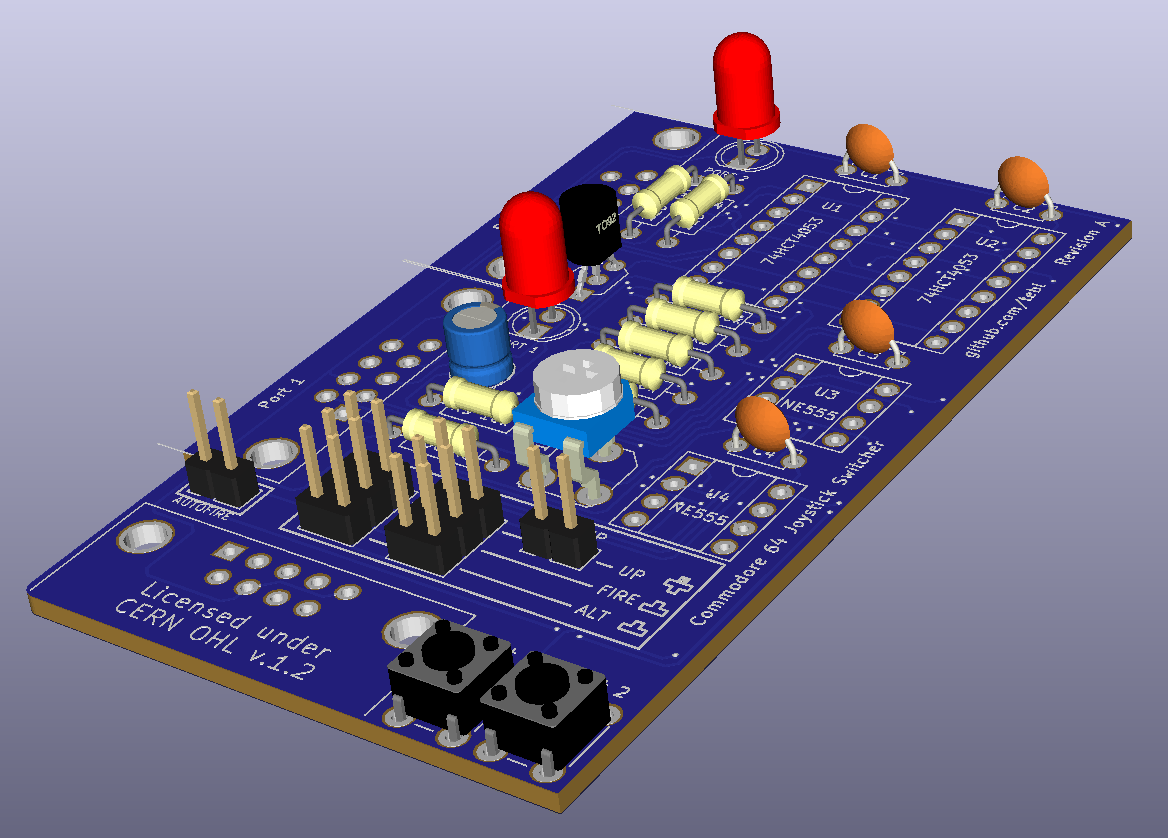
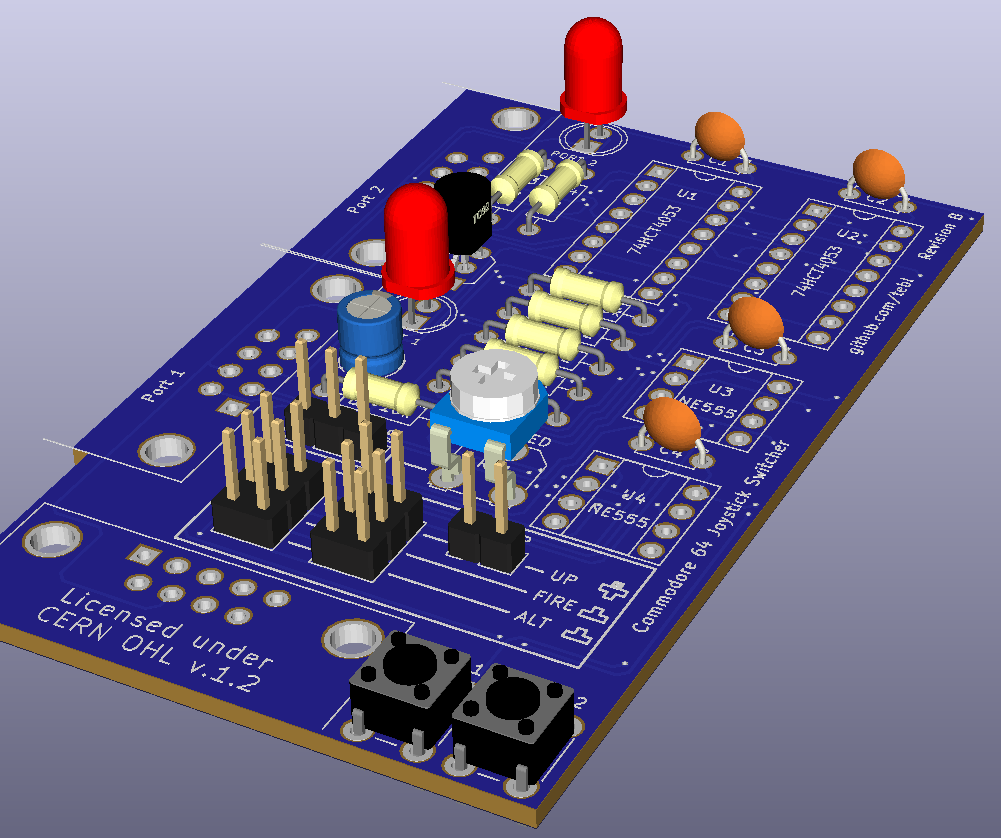
Updated README

diff --git a/README.md b/README.md
@@ -1,7 +1,5 @@
-
 # C64 Joystick Switcher
-
-I was watching [MsMadLemon](https://www.youtube.com/channel/UCSlMemxuBOFu6Rz_Al02nHQ) on [Youtube](https://youtu.be/DOF_CZoSF5g) the other day and she was making an autofire circuit, so naturally I wanted to build one too! Starting with the Mega Switcher for the Commodore 64 (switcher for using Sega Genisis/Mega Drive Controllers) I stripped away some parts to clear space for the autofire parts, and this project was the result of it all.
+I was watching [MsMadLemon](https://www.youtube.com/channel/UCSlMemxuBOFu6Rz_Al02nHQ) on [Youtube](https://youtu.be/DOF_CZoSF5g) the other day and she was making an autofire circuit, so naturally I wanted to build one too. Starting with the [C64 Mega Switcher](https://github.com/tebl/C64-Mega-Switcher) for the Commodore 64 (when you want to use Sega Genisis or Mega Drive Controllers instead), I stripped away some parts to clear space for the autofire parts. Redesigned it a couple of times, then finally redrew the whole thing in order to figure out how I messed it up. Eventually it worked, so now you can build one too! 
 
 ## Building the switcher
 Soldering together the few components should be easy going as long as you have access to reasonable tools, personally I'm using a cheap soldering station with adjustable temperature so no need to go expensive if you don't have to. Use 60/40 soldering tin, the lead free makes to job a lot harder if you're new to the hobby.
@@ -10,33 +8,39 @@ Start by studying the PCB, both sides and perform dry fits to see that you have 
 
 The female DB9 connectors used for port 1/2 comes with a metal shroud, this comes off when you remove the two screws that would be in the way anyway. Given that the C64 ports are made out of plastic, the metal shroud is not needed though you could possibly keep it by gluing it to the connector if you really wanted to and then filling the screw holes with solder to keep them together afterwards. Do a testfit of the connectors with the C64 before soldering them to the board, this is recommended in order to avoid adding any stress to the C64 board.
 
-![Components](https://github.com/tebl/C64-Mega-Switcher/raw/master/gallery/2019-07-30%2017.35.43.jpg)
-
 ## Using the switcher
-Firmly insert the switcher into the C64, making sure that it is inserted the whole way and fits firmly without feeling loose. When playing a game, if you encounter a game that expects a joystick inserted into the other port you can use the switches to change the active port.
+Firmly insert the switcher into the C64, making sure that it is inserted the whole way and fits firmly without feeling loose. When playing a game, if you encounter a game that expects a joystick inserted into the other port you can use the switches to change the currently active port.
 
 **WARNING!**
  - Do **NOT** move any of the jumpers while the computer is switched on, doing so may cause damage to it. Always power off first!
  - Do **NOT** jumper so that more than one button/direction does the same thing, for example: if you jumper the B1 button for UP, then you have to REMOVE the jumper enabling D-PAD UP!
 
+You can use any common Atari-style joystick such as the Competition Pro and Zipstick, they are the ones I've tested with and currently also have in my collection. You can use the secondary fire button if you have one wired with this capability, most commonly the pinout is compatible with the Sega Master System gamepad. An auto-fire circuit has been added to the module, this can be handy if your controller does not include this functionality. 
+
 # Schematic
-The supplied KiCad files should be sufficient as both a schematic and as a  starting point for ordering PCBs (basically you could just zip the contents of the export folder and upload that on a fabrication site), the schematic is also available in [PDF-format](https://github.com/tebl/C64_Mega_Switcher/raw/master/export/C64%20Joystick%20Switcher.pdf) and this is what you'll need to print and work your way through this things don't work as expected after assembly.
+The supplied KiCad files should be sufficient as both a schematic and as a  starting point for ordering PCBs (basically you could just zip the contents of the export folder and upload that on a fabrication site), the schematic is also available in [PDF-format](https://github.com/tebl/C64-Joystick-Switcher/raw/master/export/C64%20Joystick%20Switcher.pdf) and this is what you'll need to print and work your way through this things don't work as expected after assembly.
 
 # BOM
-Most parts should be easy to get a hold of from your favourite local electronic component shop, but given that I don't have access to such shops where I live so everything was based on whatever I could get cheapest from ebay/AliExpress (free shipping, plan on usually waiting 3-4 weeks though).
+Most parts should be easy to get a hold of from your favourite local electronic component shop, but given that I don't have access to such shops where I live so everything was based on whatever I could get cheapest from ebay/AliExpress (free shipping most places, but plan on waiting 3-4 weeks though). Pin headers are bought as strips with 40 pins, single or double rows, that you break into the specified sizes. Any amounts given in paranthesis are for optional functionality, mainly autofire and capability to utilize the secondary fire button if you have one. 
 
 | Reference    | Item                                  | Count |
 | ------------ | ------------------------------------- | ----- |
 | PCB          | Fabricate using Gerber files ([order](https://www.pcbway.com/project/shareproject/Commodore_64_Mega_Switcher.html?inviteid=88707))          |     1 |
-| C1-C3        | 100nF capacitor                       |     3 |
+| C1-C4        | 100nF capacitor                       |     4 |
+| C5           | 10uF electrolytic capacitor           |    (1)|
 | D1,D2        | 5mm LED                               |     2 |
-| D3-D7        | 1N4148 diode                          |     5 |
-| R1,R2        | 10k ohm resistor                      |     2 | 
-| R3,R4        | 220 ohm resistor                      |     2 |
-| U1           | 74HCT4053 or CD4053 DIP-16            |     2 |
-| U3           | NE555 DIP-8                           |     1 |
-| SW1,SW2      | SPST momentary push button            |     2 |
-| JP1          | 2-pin straight header                 |     1 |
 | J1,J2        | Female DB9 right-angle connector      |     2 |
 | J3           | Male DB9 right-angle connector        |     1 |
-| J4,J5        | 2x2-pin straight header               |     2 |
+| J4,J5        | 2x3-pin straight header               |     2 |
+| JP2          | 3-pin straight header                 |     1 |
+| Q1           | BC547 transistor (TO-92)              |    (1)|
+| R1,R2        | 10k ohm resistor                      |     2 | 
+| R3,R4        | 220 ohm resistor                      |     2 |
+| R5,R7        | 2k2 (2200) ohm resistor               |    (2)|
+| R6           | 100k ohm resistor                     |    (1)|
+| R9           | 10k ohm resistor                      |    (1)| 
+| RV1          | 10k ohm potentiometer (RM065)         |    (1)| 
+| U1,U2        | 74HCT4053 or CD4053 (DIP-16)          |     2 |
+| U3           | NE555 (DIP-8)                         |     1 |
+| U4           | NE555 (DIP-8)                         |    (1)|
+| SW1,SW2      | SPST momentary push button            |     2 |
